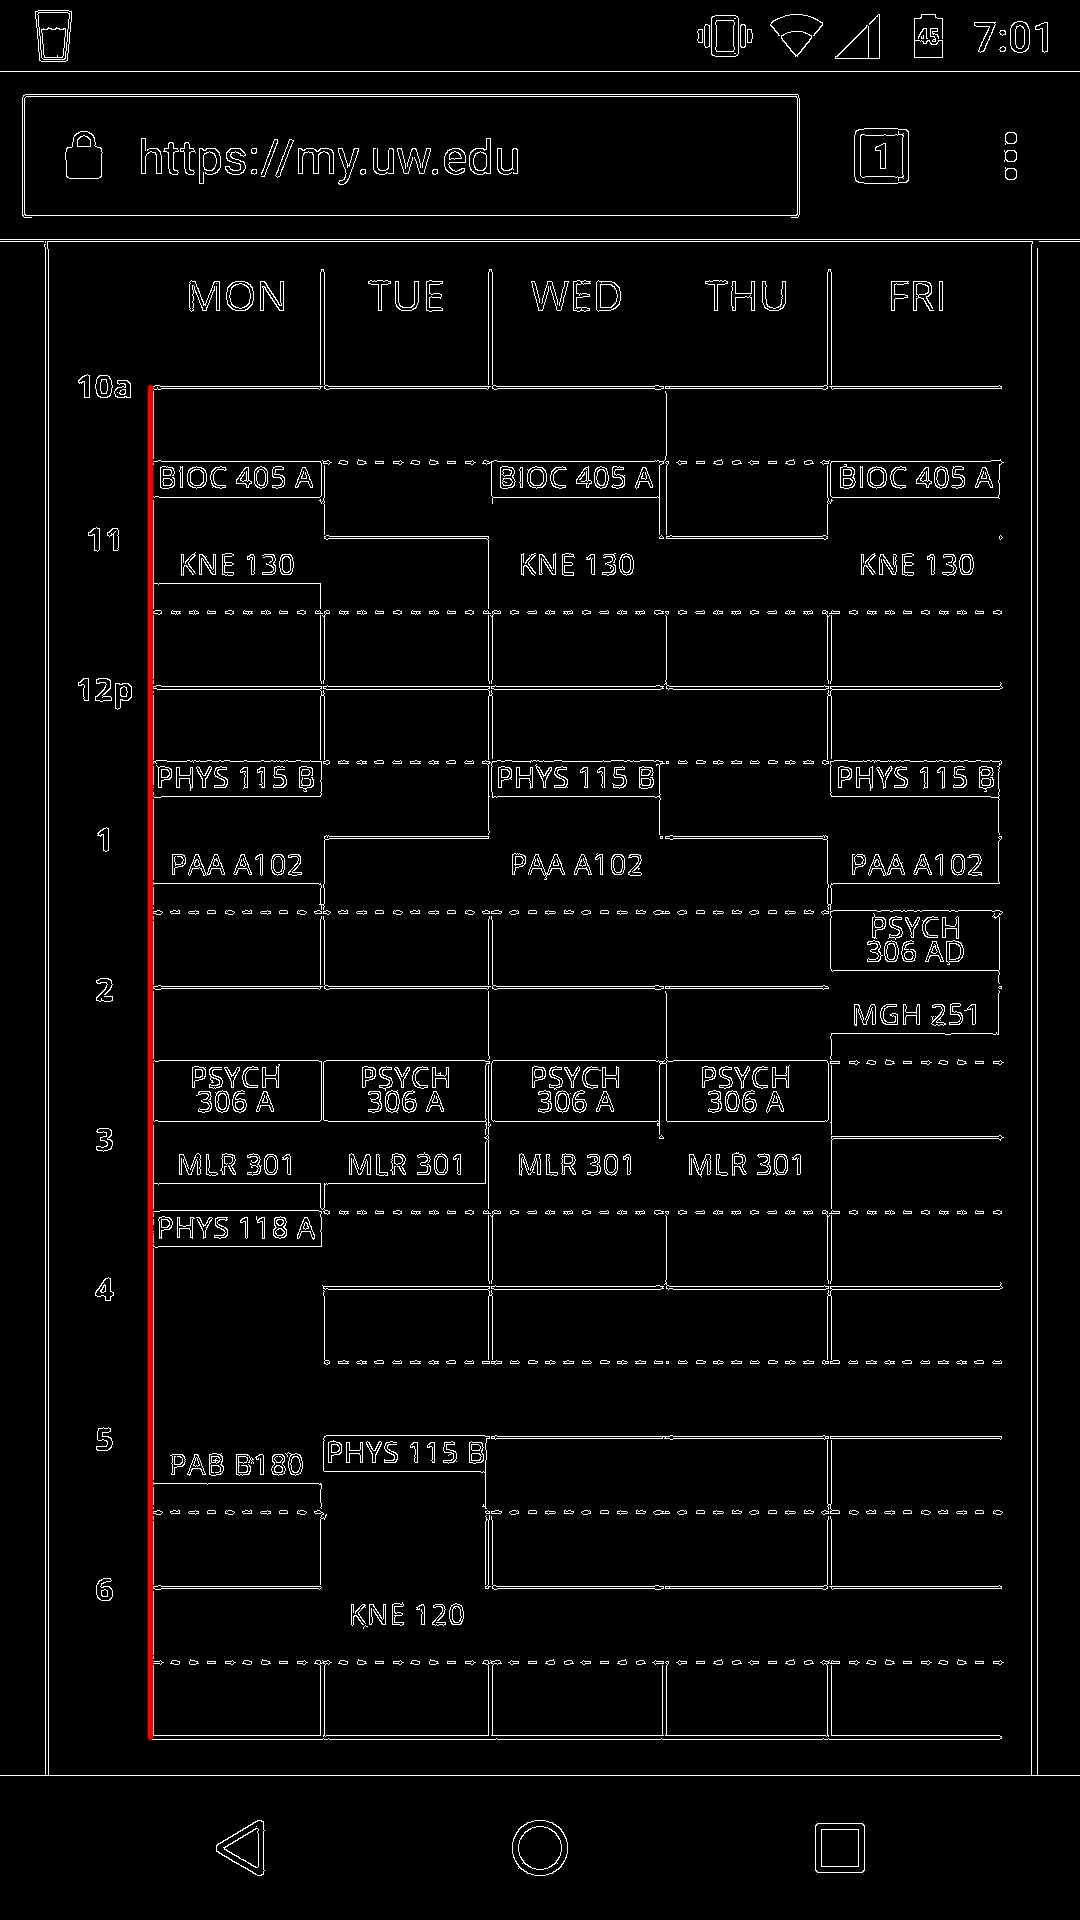
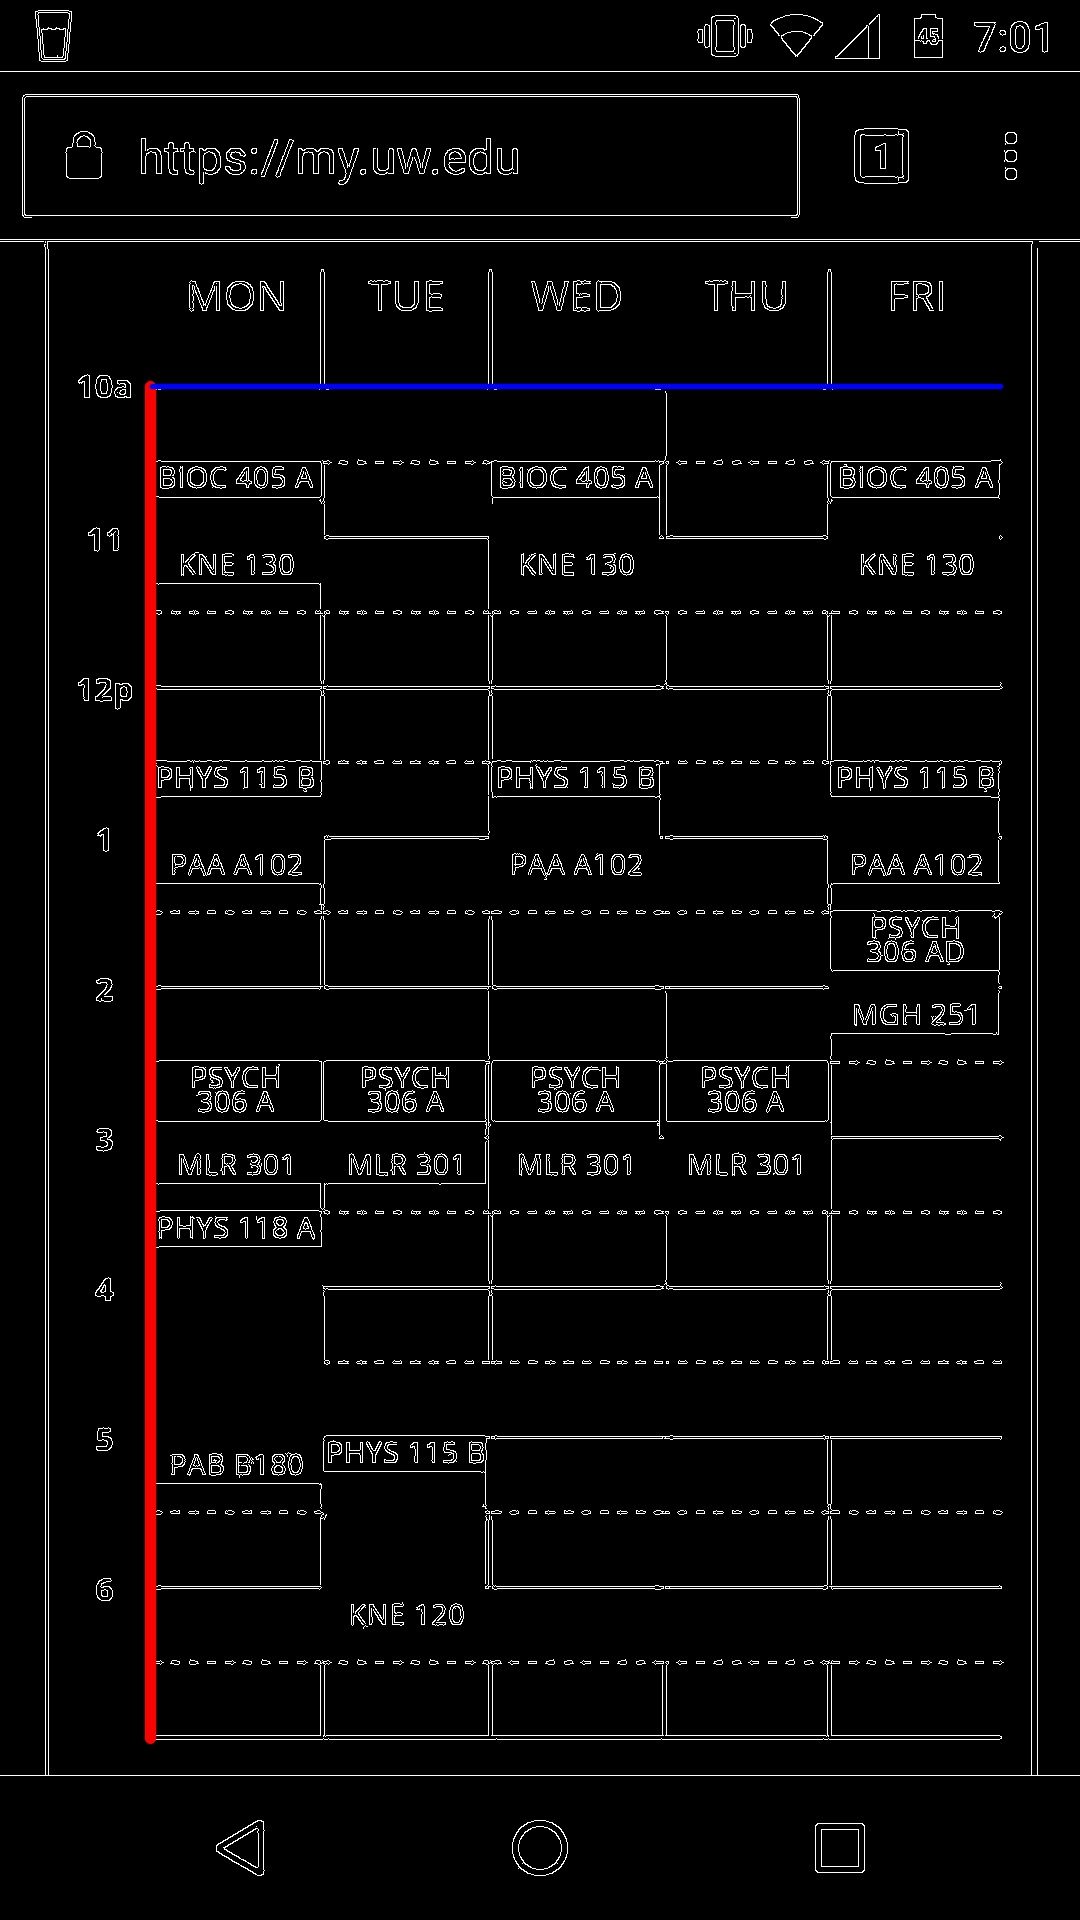
More opencv stuff

Changed region(s): [[0.1222, 0.1875, 0.9167, 0.9062]]

diff --git a/opencv/opencv-test/opencv-test/Source.cpp b/opencv/opencv-test/opencv-test/Source.cpp
@@ -7,111 +7,147 @@
 using namespace cv;
 using namespace std;
 
-static void help()
-{
-	cout << "\nThis program demonstrates line finding with the Hough transform.\n"
-		"Usage:\n"
-		"./houghlines <image_name>, Default is ../data/pic1.png\n" << endl;
-}
+#define THRESHOLD			15
+#define IN_THRESH(x,y)		abs((x) - (y)) < THRESHOLD
 
-int main(int argc, char** argv)
-{
-	cv::CommandLineParser parser(argc, argv,
-		"{help h||}{@image|../data/pic1.png|}"
-	);
-	if (parser.has("help"))
+Vec4i findLeftEdge(vector<Vec4i> lines, size_t width) {
+	vector<Vec4i> desiredLines = vector<Vec4i>();
+
+	// Only verticals on the left quarter of the image
+	for (auto line : lines)
 	{
-		help();
-		return 0;
-	}
-	string filename = parser.get<string>("@image");
-	if (filename.empty())
-	{
-		help();
-		cout << "no image_name provided" << endl;
-		return -1;
-	}
-	Mat src = imread(filename, 0);
-	if (src.empty())
-	{
-		help();
-		cout << "can not open " << filename << endl;
-		return -1;
-	}
-
-	// Find edges and convert to 
-	Mat dst, cdst;
-	Canny(src, dst, 50, 200, 3);
-	cvtColor(dst, cdst, COLOR_GRAY2BGR);
-
-#if 0
-	vector<Vec2f> lines;
-	HoughLines(dst, lines, 1, CV_PI / 180, 100, 0, 0);
-
-	for (size_t i = 0; i < lines.size(); i++)
-	{
-		float rho = lines[i][0], theta = lines[i][1];
-		Point pt1, pt2;
-		double a = cos(theta), b = sin(theta);
-		double x0 = a*rho, y0 = b*rho;
-		pt1.x = cvRound(x0 + 1000 * (-b));
-		pt1.y = cvRound(y0 + 1000 * (a));
-		pt2.x = cvRound(x0 - 1000 * (-b));
-		pt2.y = cvRound(y0 - 1000 * (a));
-		line(cdst, pt1, pt2, Scalar(0, 0, 255), 3, CV_AA);
-	}
-#else
-	vector<Vec4i> lines;
-	HoughLinesP(dst, lines, 1, CV_PI / 180, 50, 150, 10);
-
-	// 1. Find the left border of the 
-	vector<Vec4i> desired_lines = vector<Vec4i>();
-
-	int threshold = 15;
-
-	for (size_t i = 0; i < lines.size(); i++)
-	{
-		Vec4i line = lines[i];
-		// Only verticals on the left quarter of the image
-		if (abs(line[0] - line[2]) < threshold && line[0] < dst.cols/4 && line[2] < dst.cols/4) {
-			desired_lines.push_back(line);
+		if (IN_THRESH(line[0], line[2]) && (line[0] < width / 4) && (line[2] < width / 4)) {
+			desiredLines.push_back(line);
 		}
 	}
-#endif
-	//imshow("source", src);
-	//imshow("detected lines", cdst);
+
+	Vec4i rightLine = { -1, -1, -1, -1 };
 
 	// Now we want the farthest right but also the longest one
+	if (desiredLines.size() > 0) {
+		rightLine = desiredLines[0];
 
-	if (desired_lines.size() > 0) {
-		Vec4i rightLine = desired_lines[0];
-
-		// pick the farthest right of the two
-		for (size_t i = 1; i < desired_lines.size(); i++) {
-			Vec4i l = desired_lines[i];
+		// pick the farthest right
+		for (auto l : desiredLines) {
 			if (l[0] > rightLine[0]) {
 				rightLine = l;
 			}
 		}
 
-		// choose the longer of the two
-		for (size_t i = 0; i < desired_lines.size(); i++) {
-			Vec4i l = desired_lines[i];
-			if (abs(l[0] - rightLine[0]) < threshold) {
-				if (abs(l[3] - l[1]) > abs(rightLine[3] - rightLine[1])) {
+		// choose the longest
+		for (auto l : desiredLines) {
+			if (IN_THRESH(l[0], rightLine[0])) {
+				if ((abs(l[3] - l[1]) > abs(rightLine[3] - rightLine[1]))) {
 					rightLine = l;
 				}
 			}
-
 		}
+	}
+	return rightLine;
+}
 
-		line(cdst, Point(rightLine[0], rightLine[1]), Point(rightLine[2], rightLine[3]), Scalar(0, 0, 255), 3, LINE_AA);
+Vec4i findTopEdge(vector<Vec4i> lines, Vec4i leftEdge) {
+	Vec4i topEdge = { -1, -1, -1, -1 };
 
-		imwrite("../data/output.jpg", cdst);
+	// Find the longest line that shares a point with the left edge
+	for (size_t i = 0; i < lines.size(); i++) {
+		Vec4i l = lines[i];
+		// Horizontal?
+		if (IN_THRESH(l[1], l[3])) {
+			// Shares point?
+			if (IN_THRESH(l[0], leftEdge[2]) && IN_THRESH(l[1], leftEdge[3])) {
+				// Is longest?
+				if (topEdge[0] >= 0) {
+					if (abs(topEdge[2] - topEdge[0]) < abs(l[2] - l[0])) {
+						topEdge = l;
+					}
+				}
+				else {
+					topEdge = l;
+				}
+			}
+		}
 	}
 
+	return topEdge;
+}
 
+uint32_t getHourHeight(Mat timeline) {
+	Mat edges;
+	Canny(timeline, edges, 50, 200);
+
+	// Go through the edges somehow
+	vector<vector<Point>> contours;
+	vector<Point> heirarchy;
+	findContours(edges, contours, CV_RETR_LIST, CV_CHAIN_APPROX_SIMPLE);
+
+	Mat timelineContours = Mat::zeros(edges.size(), CV_8UC3);
+	for (int i = 0; i < contours.size(); i++) {
+		drawContours(timelineContours, contours, i, Scalar(255, 255, 255));
+	}
+	imwrite("../data/timelineContours.jpg", timelineContours);
+
+	// TODO:
+	// - Go through each of the contours and convert them into high and low Y values
+	// - Attempt to normalize each of the vertical ranges and eliminate non-timeline elements
+	// - Finally, average out the distances between consecutive contours (top value to top value) and use as hour height
+
+	return 0;
+}
+
+int main(int argc, char** argv)
+{
+	string filename = "../data/schedule.jpg";
+	Mat src = imread(filename);
+	if (src.empty())
+	{
+		cout << "can't open " << filename << endl;
+		return -1;
+	}
+
+	// Convert to gray
+	Mat gray = src;
+	cvtColor(src, gray, COLOR_BGR2GRAY);
+
+	// Detect edges
+	Mat edges;
+	Canny(gray, edges, 50, 200);
+
+	// Set up "output" matrix
+	Mat output;
+	// We want it BGR so that we can draw colored lines on it
+	cvtColor(edges, output, COLOR_GRAY2BGR);
+
+	// Detect lines from edges
+	vector<Vec4i> lines;
+	HoughLinesP(edges, lines, 1, CV_PI / 180, 50, 150, 10);
+
+	// Find the left edge of our schedule area
+	Vec4i leftEdge = findLeftEdge(lines, edges.cols);
+	if (leftEdge[0] < 0) {
+		return -1;
+	}
+	line(output, Point(leftEdge[0], leftEdge[1]), Point(leftEdge[2], leftEdge[3]), Scalar(0, 0, 255), 10, LINE_AA);
+	cout << "Found left edge: " << leftEdge << endl;
+
+	// Find the top edge of our schedule area
+	Vec4i topEdge = findTopEdge(lines, leftEdge);
+	if (topEdge[0] < 0) {
+		return -1;
+	}
+	line(output, Point(topEdge[0], topEdge[1]), Point(topEdge[2], topEdge[3]), Scalar(255, 0, 0), 3, LINE_AA);
+	cout << "Found top edge: " << topEdge << endl;
+
+	// Cut out the part of the schedule we care about
+	Mat sched = src(Range(leftEdge[3], leftEdge[1]), Range(topEdge[0], topEdge[2]));
+	imwrite("../data/sched.jpg", sched);
+	
+	// Now figure out how tall an hour is
+	Mat timeline = edges(Range(leftEdge[3], leftEdge[1]), Range(0, topEdge[0]));
+	imwrite("../data/timeline.jpg", timeline);
+	uint32_t hourHeight = getHourHeight(timeline);
+
+	imwrite("../data/output.jpg", output);
 	waitKey();
-
 	return 0;
 }
